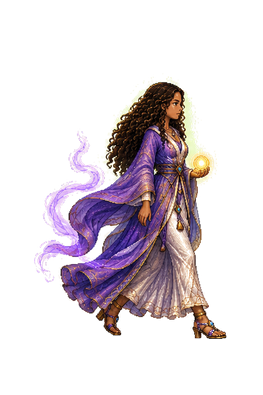
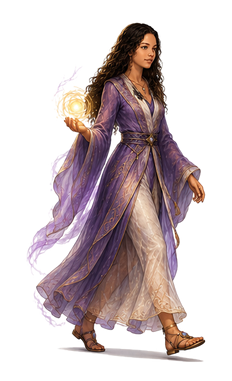
Integrate v0.5E Tactical Movement Masters
Replaces Auryi's and Prismel's tactical walk-cycle art with cleaned
illustrated masters, and gives both enemies illustrated movement
tokens for the first time (previously always the plain procedural
circle). ENEMY_TOKEN_ART mirrors CHARACTER_TOKEN_ART exactly;
_buildEnemy() now branches on it the same way _buildHero() already
branches on the hero table, and _buildCharacterToken() took an
artTable parameter so both paths share one implementation. Enemies
already path/animate-move on their own turn, so the new cycles are
exercised for real during a normal enemy phase.

Also fixes a scale mistake made earlier in this same integration pass,
directly named by this handoff's own party-scale lock (Auryi tallest >
Prismel middle > Kineza shortest, reference art included). Kineza's
own dedicated v0.5B handoff had already locked a flat 0.294 runtime
scale for him, with relative party size meant to live in each
character's own pre-processed map-icon content height (his: 230px),
not a second runtime multiplier. A prior pass imported Battle
Presentation's scaleMul as that missing multiplier instead — a
different number that also corrects for BP-canvas padding the tactical
art never had — shrinking his tactical token twice over two reports.
Restored the one-flat-scale system: Prismel unchanged (261px), Kineza
reverted to locked 230px, Auryi resized to 344px (preserving her
already-approved live size rather than reverting to this package's
[…]

diff --git a/src/tactical/TacticalScene.js b/src/tactical/TacticalScene.js
@@ -180,62 +180,116 @@ const KINEZA_WALK_FRAMES = [
   'kineza_run_01_contact_a', 'kineza_run_02_down_a', 'kineza_run_03_passing_a',
   'kineza_run_04_contact_b', 'kineza_run_05_down_b', 'kineza_run_06_passing_b'
 ];
+// v0.5E Tactical Movement Masters — enemies get illustrated walk-cycle
+// tokens for the first time (previously always the plain procedural
+// circle from _buildUnitToken()), same six-frame shape as the heroes.
+const WRAITH_WALK_FRAMES = [
+  'wraith_hover_01_contact_a', 'wraith_hover_02_down_a', 'wraith_hover_03_passing_a',
+  'wraith_hover_04_contact_b', 'wraith_hover_05_down_b', 'wraith_hover_06_passing_b'
+];
+const HUSHLING_WALK_FRAMES = [
+  'hushling_stomp_01_contact_a', 'hushling_stomp_02_down_a', 'hushling_stomp_03_passing_a',
+  'hushling_stomp_04_contact_b', 'hushling_stomp_05_down_b', 'hushling_stomp_06_passing_b'
+];
 
 // On-screen footprint (world px, at zoom 1) Prismel's token (the
-// baseline, scaleMul 1) renders at — icon content height (265px) *
-// runtime scale (0.294) ≈ 78, width sized to his own figure (~64) with
-// a little headroom. Drives the *shadow's* size in _buildCharacterToken()
-// — the character art itself now varies per hero, see CHARACTER_TOKEN_ART.
+// baseline) renders at — icon content height (261px) * runtime scale
+// (0.294) ≈ 77, width sized to his own figure with a little headroom.
+// Drives the *shadow's* size in _buildCharacterToken() — the character
+// art itself varies per hero/enemy, see CHARACTER_TOKEN_ART/ENEMY_TOKEN_ART.
 const ONSCREEN_H = 78;
 const ONSCREEN_W = 64;
 
-// Reported directly: even though Auryi's map icon is nominally taller
-// than Prismel's, she read as noticeably thinner and smaller overall on
-// the tactical map — not a small difference either. Traced to two
-// things stacking: the map_icons/ pre-resize step (see the big comment
-// below) deliberately normalizes every hero to the same ~260px content
-// height regardless of their true relative size, and every hero's
-// `scale` here was then left flat at the same 0.294 on top of that —
-// so Battle Presentation's own established size hierarchy (BattleConfig.js
-// scaleMul: Prismel 1, Kineza 0.78, Auryi 1.29 — she's *deliberately*
-// the tallest of the three there) never carried over to the tactical
-// map at all. Scaled each hero's token by that same ratio here — not
-// imported directly (TacticalScene already keeps its own independent
-// copy of hero stats rather than importing BattleConfig, e.g.
-// HERO_STATS' hp/atk numbers are unrelated to BP's), just matched by
-// hand so the two views agree on who's bigger than whom.
+// v0.5E Tactical Movement Masters replaced Auryi's and Prismel's walk
+// cycles with cleaned illustrated masters (Kineza untouched — his own
+// dedicated v0.5B handoff already locked his numbers below). Party scale
+// lock per that handoff: Auryi tallest, Prismel middle, Kineza shortest,
+// "do not normalize all three to one identical visual content height."
 //
-// Kineza's 0.78 needed a follow-up correction, reported directly after
-// the first pass ("he looks almost too small now"). BP's own comment on
-// his scaleMul explains why it doesn't transfer 1:1: his BP pose
-// canvases are "framed wider and taller than Prismel's" (extra aura/
-// dust-trail padding baked into the same canvas Prismel's tighter crop
-// doesn't carry), so 0.78 is his true height ratio *compounded with* a
-// padding correction Auryi's scaleMul explicitly says she never needed.
-// The tactical map_icons are a separately, independently normalized
-// asset set (pre-resized to the same reference content height
-// regardless of source padding) — they don't carry that same BP-canvas
-// padding, so applying 0.78 to them re-applied a correction that had
-// nothing left to correct for, shrinking him too far. Nudged back up
-// partway between the flat 0.78 and no-correction 1.0.
+// Kineza's own manifest (v0.5B, KINEZA_TACTICAL_MANIFEST.json) is the
+// reference for how this is *supposed* to work: one flat runtime scale
+// (0.294) shared by everyone, with the relative height ordering baked
+// into each character's own pre-processed map-icon content height
+// instead (his: 230px measured content height at that scale). A prior
+// pass here mistakenly treated 0.294-for-everyone as an accidental bug
+// and layered BP's scaleMul (Prismel 1 / Kineza 0.78 / Auryi 1.29) on
+// top as a second multiplier — BP's own comment on Kineza's scaleMul
+// explains why that number specifically doesn't transfer: it's his true
+// height ratio *compounded with* a correction for his BP pose canvas
+// being "framed wider and taller than Prismel's," a padding difference
+// the tactical map-icons (independently pre-processed) never had to
+// begin with. That left Kineza's tactical token shrunk twice, reported
+// directly as "he looks almost too small now." Reverted to his own
+// locked 230px/0.294 and brought Auryi/Prismel onto the same one-flat-
+// scale system by baking their relative sizing into the new masters'
+// own resize instead — content heights of 344px (Auryi) and 261px
+// (Prismel), the latter unchanged from before, the former chosen to
+// preserve her already-live, already-approved on-screen size (267px *
+// 0.379 effective ≈ what 344px * 0.294 reproduces) rather than reverting
+// to this package's own older "270px" historical anchor, since Auryi's
+// current size was never itself reported as a problem — only Kineza's.
 const CHARACTER_TOKEN_ART = Object.freeze({
   prismel: {
     baseFacing: 'right',
-    idle: { key: 'prismel_walk_01_contact_a', originY: 1323 / 1536, scale: 0.294 },
+    // sizeMul: content height relative to Prismel's own 261px baseline
+    // (always 1 for him) — now that runtime `scale` is flat 0.294 for
+    // everyone, relative size lives entirely in each character's own
+    // pre-processed content height, and the shadow below needs *some*
+    // per-character signal now that art.idle.scale/0.294 is always 1.
+    sizeMul: 1,
+    idle: { key: 'prismel_walk_01_contact_a', originY: 0.954088, scale: 0.294 },
     walkFrames: PRISMEL_WALK_FRAMES,
-    walk: { originY: 1323 / 1536, scale: 0.294 }
+    walk: { originY: 0.954088, scale: 0.294 }
   },
   auryi: {
-    baseFacing: 'left',
-    idle: { key: 'auryi_move_01_contact_a', originY: 0.860759, scale: 0.379 },
+    // New masters are authored right-facing (per LOCKED_MOVEMENT_FORMULA.md
+    // — "consistent right-facing tactical three-quarter profile"),
+    // unlike her old left-facing set — baseFacing flips to 'right' to
+    // match, same convention as Prismel/Kineza now.
+    baseFacing: 'right',
+    sizeMul: 344 / 261,
+    idle: { key: 'auryi_move_01_contact_a', originY: 0.951754, scale: 0.294 },
     walkFrames: AURYI_WALK_FRAMES,
-    walk: { originY: 0.860759, scale: 0.379 }
+    walk: { originY: 0.951754, scale: 0.294 }
   },
   kineza: {
     baseFacing: 'right',
-    idle: { key: 'kineza_run_01_contact_a', originY: 0.860759, scale: 0.259 },
+    sizeMul: 230 / 261,
+    idle: { key: 'kineza_run_01_contact_a', originY: 0.860759, scale: 0.294 },
     walkFrames: KINEZA_WALK_FRAMES,
-    walk: { originY: 0.860759, scale: 0.259 }
+    walk: { originY: 0.860759, scale: 0.294 }
+  }
+});
+
+// v0.5E also adds illustrated movement tokens for both enemies — they
+// previously only ever rendered as the plain procedural circle
+// (_buildUnitToken()). No prior approved reference existed for their
+// relative size the way the hero trio had, so these two targets are
+// FAI's own calibrated choice: Wraith comparable to (a little larger
+// than) the tallest hero, matching "purple spectral hover... imposing"
+// intent; Hushling larger still, matching "massive... may exceed hero
+// silhouettes... do not shrink to match" — his own wider stance
+// (content width/height ~0.70 vs the casters' ~0.55-0.63) carries the
+// "breadth" cue on top of the height difference. Source art faces
+// screen-left already (unverified against a written spec, since none
+// of this package's docs state an enemy facing convention — matched to
+// the project's existing enemy-faces-left standard instead, the same
+// convention Battle Presentation's own Wraith/Hushling views already
+// use), so baseFacing is 'left', not 'right' like the hero trio.
+const ENEMY_TOKEN_ART = Object.freeze({
+  veil_wraith: {
+    baseFacing: 'left',
+    sizeMul: 360 / 261,
+    idle: { key: 'wraith_hover_01_contact_a', originY: 0.950125, scale: 0.294 },
+    walkFrames: WRAITH_WALK_FRAMES,
+    walk: { originY: 0.950125, scale: 0.294 }
+  },
+  hushling: {
+    baseFacing: 'left',
+    sizeMul: 400 / 261,
+    idle: { key: 'hushling_stomp_01_contact_a', originY: 0.947456, scale: 0.294 },
+    walkFrames: HUSHLING_WALK_FRAMES,
+    walk: { originY: 0.947456, scale: 0.294 }
   }
 });
 
@@ -259,9 +313,7 @@ export default class TacticalScene extends Phaser.Scene {
     this.load.image('portrait_auryi', './assets/ui/portrait_auryi.png');
     this.load.image('portrait_wraith', './assets/ui/portrait_wraith_v34.png');
     this.load.image('portrait_hushling', './assets/ui/portrait_hushling_v34.png');
-    // Hero map tokens — existing battle-pose art plus the validated
-    // walk-cycle sets (see CHARACTER_TOKEN_ART above). Enemies still use
-    // procedural tokens, no load needed for those.
+    // Hero map tokens — walk-cycle sets (see CHARACTER_TOKEN_ART above).
     PRISMEL_WALK_FRAMES.forEach(key => {
       this.load.image(key, `./assets/prismel/walk/map_icons/${key}_mapicon.png`);
       this.load.image(`${key}_silhouette`, `./assets/prismel/walk/map_icons/${key}_silhouette.png`);
@@ -273,6 +325,17 @@ export default class TacticalScene extends Phaser.Scene {
     KINEZA_WALK_FRAMES.forEach(key => {
       this.load.image(key, `./assets/kineza/movement/map_icons/${key}_mapicon.png`);
       this.load.image(`${key}_silhouette`, `./assets/kineza/movement/map_icons/${key}_silhouette.png`);
+    });
+    // v0.5E — enemy map tokens, same walk-cycle shape as the heroes
+    // (see ENEMY_TOKEN_ART above). Previously enemies had no illustrated
+    // tactical art at all, only the procedural circle.
+    WRAITH_WALK_FRAMES.forEach(key => {
+      this.load.image(key, `./assets/enemy/veil_wraith/movement/map_icons/${key}_mapicon.png`);
+      this.load.image(`${key}_silhouette`, `./assets/enemy/veil_wraith/movement/map_icons/${key}_silhouette.png`);
+    });
+    HUSHLING_WALK_FRAMES.forEach(key => {
+      this.load.image(key, `./assets/enemy/hushling/movement/map_icons/${key}_mapicon.png`);
+      this.load.image(`${key}_silhouette`, `./assets/enemy/hushling/movement/map_icons/${key}_silhouette.png`);
     });
     Object.values(HERO_HIT_SFX).forEach(({ key, path }) => this.load.audio(key, path));
     // v0.5C Tactical Hero HUD — Master A is the sole geometry authority
@@ -513,16 +576,19 @@ export default class TacticalScene extends Phaser.Scene {
   // (ONSCREEN_W/ONSCREEN_H below, derived from CHARACTER_TOKEN_ART's
   // scale) so nothing semi-transparent in the art ever has tile detail
   // behind it to blend with — solid accent color instead.
-  _buildCharacterToken(charKey) {
-    const art = CHARACTER_TOKEN_ART[charKey];
+  _buildCharacterToken(charKey, artTable = CHARACTER_TOKEN_ART) {
+    const art = artTable[charKey];
     const container = this.add.container(0, 0).setDepth(10);
 
     // Small grounded contact shadow — subtle, dark, at the feet. Not
     // accent-colored: a shadow, not a team-color plate. Sized off this
-    // hero's own scale relative to Prismel's baseline (0.294), not the
-    // flat ONSCREEN_W/H constants, so a visibly bigger Auryi doesn't
-    // stand on the same tiny shadow as everyone else.
-    const shadowMul = art.idle.scale / 0.294;
+    // character's own sizeMul (relative content height vs Prismel's
+    // baseline), not the flat ONSCREEN_W/H constants, so a visibly
+    // bigger character (Auryi, or either enemy) doesn't stand on the
+    // same tiny shadow as everyone else. Runtime `scale` itself is flat
+    // 0.294 across every character now, so it carries no size signal —
+    // sizeMul is the one that does.
+    const shadowMul = art.sizeMul || 1;
     const shadow = this.add.ellipse(0, -3, ONSCREEN_W * 0.56 * shadowMul, ONSCREEN_H * 0.1 * shadowMul, 0x000000, 0.35);
 
     // Character-following outline: a slightly-larger, near-black copy of
@@ -609,15 +675,30 @@ export default class TacticalScene extends Phaser.Scene {
     return hero;
   }
 
+  // v0.5E: mirrors _buildHero()'s exact "art if present, else the plain
+  // procedural token" branch — same generic onStep/onMoveEnd wiring, just
+  // against ENEMY_TOKEN_ART/ENEMY_STATS instead of the hero tables.
   _buildEnemy(e) {
     const stats = ENEMY_STATS[e.type];
-    const sprite = this._buildUnitToken(stats.accent, stats.label, false);
-    return {
+    const art = ENEMY_TOKEN_ART[e.type];
+    let sprite, onStep = null, onMoveEnd = null;
+    if (art) {
+      const token = this._buildCharacterToken(e.type, ENEMY_TOKEN_ART);
+      sprite = token.container;
+      onStep = token.onStep;
+      onMoveEnd = token.onMoveEnd;
+    } else {
+      sprite = this._buildUnitToken(stats.accent, stats.label, false);
+    }
+    const enemy = {
       id: e.id, type: e.type, x: e.x, y: e.y,
       hp: stats.hp, maxHp: stats.hp, atk: stats.atk, range: stats.range,
       name: stats.name, ability: stats.ability, portraitKey: stats.cinematicKey,
       alive: true, isHero: false, sprite, spriteYOffset: 0
     };
+    if (onStep) enemy.onStep = onStep;
+    if (onMoveEnd) enemy.onMoveEnd = onMoveEnd;
+    return enemy;
   }
 
   // Called on create() and every resize. World geometry never changes

diff --git a/tactical-field-v2.html b/tactical-field-v2.html
@@ -59,7 +59,7 @@
 <script type="module">
   import TitleScene from './src/tactical/TitleScene.js?v=7';
   import IntroCrawlScene from './src/tactical/IntroCrawlScene.js?v=3';
-  import TacticalScene from './src/tactical/TacticalScene.js?v=70';
+  import TacticalScene from './src/tactical/TacticalScene.js?v=71';
   import VeilBattleScene from './src/VeilBattleScene.js?v=47';
 
   const boot = document.getElementById('loading');

diff --git a/README.md b/README.md
@@ -313,6 +313,15 @@ Both new frames size themselves off their own source art's aspect ratio (555×10
 
 The three map control buttons ship as full Image art (125-140px native) with glyphs baked in, replacing plain circles — sized down in `layoutHUD()` to the action console's own touch-friendly height (matching `barHeight`) while preserving each texture's individual aspect ratio, and spaced by their actual rendered width rather than a hardcoded offset, so the row stays evenly gapped at both the compact and full touch size.
 
+### Movement masters — v0.5E Tactical Movement Masters
+Replaced Auryi's and Prismel's tactical walk-cycle art with cleaned illustrated masters, and — new territory — gave both enemies illustrated movement tokens for the first time; they previously only ever rendered as the plain procedural circle from `_buildUnitToken()`. `ENEMY_TOKEN_ART` mirrors `CHARACTER_TOKEN_ART` exactly (same six-frame idle/walk shape, same `originY`/`scale`/`baseFacing` fields), and `_buildEnemy()` now branches on it the same way `_buildHero()` already branched on `CHARACTER_TOKEN_ART` — art if present, the old procedural token as fallback otherwise. `_buildCharacterToken()` itself just took an `artTable` parameter so both build paths share the one implementation. Enemies actually path and animate-move on their own turn already (`enemyAttack()`'s move-toward-target step calls the same `UnitController.animateMove()` heroes use), so the new walk cycles are exercised for real during a normal enemy phase, not just standing idle.
+
+This handoff's own party-scale lock (`Auryi tallest > Prismel middle > Kineza shortest`, explicit reference art included) directly named the mechanism behind a scale mistake made earlier in the same integration pass — see `CLAUDE.md`'s traps list for the full story. Short version: Kineza's own dedicated v0.5B handoff had already locked a flat `0.294` runtime scale for him specifically, with relative party size meant to live entirely in each character's own pre-processed map-icon *content height* (his: 230px) rather than a second runtime multiplier. A prior pass mistook the shared `0.294` baseline as an oversight and imported Battle Presentation's `scaleMul` (a *different* number that also corrects for BP-canvas padding Kineza's tactical art never had) as that missing multiplier, shrinking his tactical token twice over two reports. v0.5E's asset processing restored the one-flat-scale-per-everyone system Kineza's own manifest had already established: Prismel unchanged (261px content height), Auryi resized to 344px (preserving her already-live, already-approved on-screen size rather than reverting to this package's own older 270px historical anchor), Kineza reverted to his locked 230px. Wraith (360px) and Hushling (400px, plus his own wider stance) had no prior anchor at all — enemies never had illustrated tactical art before — so those two are FAI's own calibrated choice against the handoff's qualitative direction ("purple spectral hover, imposing" / "massive... may exceed hero silhouettes, do not shrink to match").
+
+A `sizeMul` field (content height relative to Prismel's 261px baseline) was added to every `CHARACTER_TOKEN_ART`/`ENEMY_TOKEN_ART` entry specifically to feed the per-character contact-shadow sizing in `_buildCharacterToken()` — with runtime `scale` now flat `0.294` for everyone, `art.idle.scale / 0.294` (the ratio the shadow used to read) always evaluates to `1`, silently losing the "a visibly bigger character doesn't stand on the same tiny shadow" fix from the same session; `sizeMul` is the value that actually varies per character now.
+
+Auryi's new masters are authored right-facing (this package's own `LOCKED_MOVEMENT_FORMULA.md` specifies "a consistent right-facing tactical three-quarter profile" for future humanoid movement masters), unlike her old left-facing set — `baseFacing` flips to `'right'` to match, the same convention Prismel and Kineza already use. Both enemies' source art faces left, matching the project's existing enemy-faces-left convention (Battle Presentation's own Wraith/Hushling views already use it) — this package's own docs don't state an enemy facing convention explicitly, so that match was inferred rather than spec'd.
+
 ---
 
 ## Running locally

diff --git a/CLAUDE.md b/CLAUDE.md
@@ -173,6 +173,8 @@ Every one of these reached the repo and had to be fixed. Do not repeat them.
 
 **A fraction meant to be a *centre* x/y only lands centred if the text/object's own origin is `(0.5, 0.5)` — origin `(0, 0.5)` (left-edge anchor) at that same coordinate renders starting *at* the centre and runs off to one side of it instead.** The v0.5C hero HUD's name/title text used `HERO_HUD_GEOMETRY.title.leftX/rightX` — each strip's measured *centre* x — but was built with `setOrigin(0, 0.5)`, left over from copying the pattern other left-anchored HUD text in this file already uses. Reported directly as text looking "off centre a bit." Fixed by matching the origin to what the coordinate actually represents: `setOrigin(0.5, 0.5)` for a centre-fraction, `(0, y)` only for a true left-edge fraction. **Origin and the semantics of the coordinate it's applied to have to agree — check what a geometry fraction actually measured (an edge or a centre) before picking the origin, not just copy whatever origin a neighboring element happens to use.**
 
+**A number that's identical across two systems by coincidence is not evidence they should be coupled — importing a "fix" for one system's problem into a system that never had that problem re-breaks it.** `TacticalScene.js`'s hero map tokens and `BattleConfig.js`'s Battle Presentation poses both happened to use `0.294`/`scaleMul: 1` as Prismel's baseline number, which read as "the tactical map forgot to apply BP's per-hero scaleMul" — a real report ("Auryi looks thinner and smaller despite being taller") got misdiagnosed as exactly that, and BP's `scaleMul` (Prismel 1 / Kineza 0.78 / Auryi 1.29) got layered on top of the tactical map's own flat scale as a second multiplier. It's the wrong fix because the two systems solve size a different way: BP's pose canvases have per-character padding baked in (Kineza's own comment says his canvas is "framed wider and taller than Prismel's"), so his `scaleMul` is his true height ratio *compounded with* a padding correction — but the tactical map-icons are a separately, independently pre-processed asset set with no such padding, so applying that same compounded number re-applied a correction that had nothing left to correct for. Shrunk Kineza's tactical token twice, reported directly as "he looks almost too small now" on the very next test pass. The actually-correct pattern was hiding in plain sight the whole time: Kineza's own dedicated v0.5B handoff had already locked a flat `0.294` runtime scale for him specifically, with his relative size baked into his own map-icon's pre-processed *content height* (230px) instead of a runtime multiplier — the same lesson `map_icons/`'s own pre-resize step already encodes (see the ghost-token entry above), just not connected to the scaleMul mistake until a second report forced re-deriving it. **Before reusing a tuning number from one system in another, check whether the two systems actually solve the same problem the same way — a shared numeric coincidence (both starting from `1`/`0.294`) is not shared architecture, and the fix for "this system's number is wrong" might be "stop importing a number from a system that measures something different," not "import harder."**
+
 ---
 
 ## Standards
